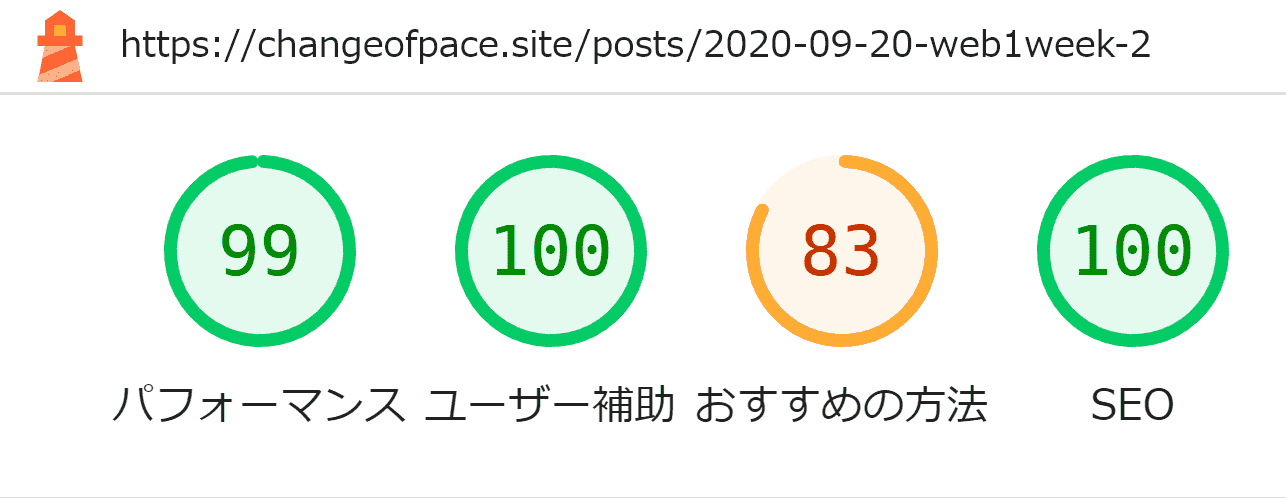
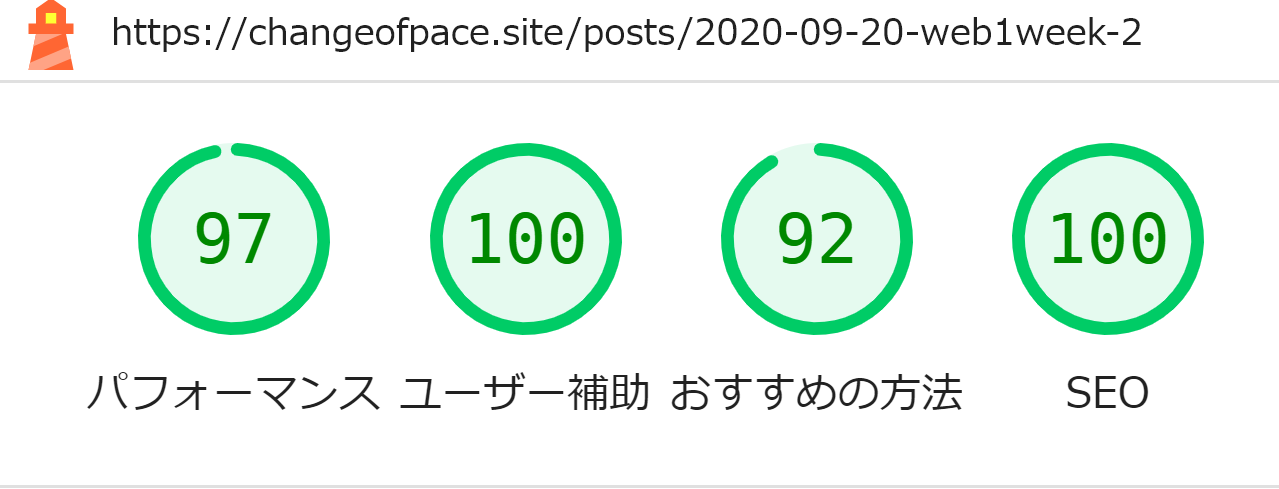
misc: v5.0.0時点のLightHouseスコア更新(#103)

diff --git a/score/README.md b/score/README.md
@@ -1,0 +1,14 @@
+## LightHouse スコア
+
+- top：トップページ（`/`）
+- about：about ページ（`/about`）
+- link：リンク多め（`/posts/2023-02-11-developers-summit-2023`）
+- image：画像多め（`/posts/2020-04-23-react-material-ui`）
+- tweet：ツイート埋め込み多め（`/posts/2020-09-20-web1week-2`）
+
+## 開発環境での計測時の注意点
+減点をくらうものがある。  
+減点されるスコアは若干のばらつきがあることにも注意。
+
+- SEO：-9 - ページインデックス登録できない
+  - 開発環境ではサイトマップが生成されないため
